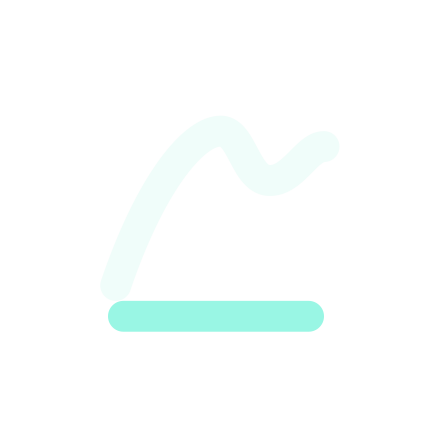
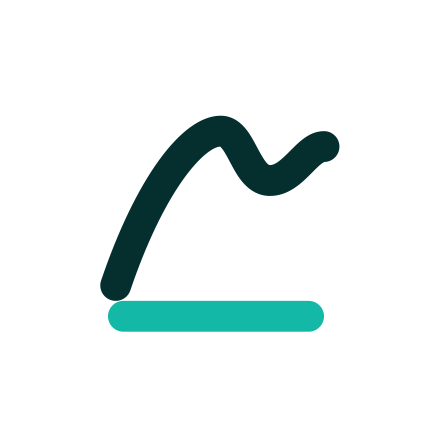
feat: animate branded app startup

Changed region(s): [[0.2106, 0.2708, 0.8125, 0.7824]]

diff --git a/src/app/_layout.tsx b/src/app/_layout.tsx
@@ -1,10 +1,22 @@
+import { useEffect, useState } from 'react';
 import { Stack } from 'expo-router';
 import { StatusBar } from 'expo-status-bar';
-import { ActivityIndicator, Pressable, StyleSheet, Text, View } from 'react-native';
+import * as SplashScreen from 'expo-splash-screen';
+import {
+  Animated,
+  Easing,
+  Platform,
+  Pressable,
+  StyleSheet,
+  Text,
+  View,
+} from 'react-native';
 import { SafeAreaProvider } from 'react-native-safe-area-context';
 
 import { colors } from '@/theme/colors';
 import { AuthProvider, useAuth } from '@/providers/auth-provider';
+
+void SplashScreen.preventAutoHideAsync();
 
 export default function RootLayout() {
   return (
@@ -19,13 +31,20 @@ export default function RootLayout() {
 
 function RootNavigator() {
   const { status, error, retrySession } = useAuth();
+  const [startupDelayComplete, setStartupDelayComplete] = useState(false);
 
-  if (status === 'loading') {
+  useEffect(() => {
+    const timer = setTimeout(() => setStartupDelayComplete(true), 1100);
+    return () => clearTimeout(timer);
+  }, []);
+
+  useEffect(() => {
+    void SplashScreen.hideAsync();
+  }, []);
+
+  if (status === 'loading' || !startupDelayComplete) {
     return (
-      <View style={styles.stateScreen}>
-        <ActivityIndicator color={colors.primary} size="large" />
-        <Text style={styles.stateText}>Connecting to SketchFlow…</Text>
-      </View>
+      <AnimatedStartupScreen />
     );
   }
 
@@ -62,7 +81,83 @@ function RootNavigator() {
   );
 }
 
+function AnimatedStartupScreen() {
+  const [progress] = useState(() => new Animated.Value(0));
+
+  useEffect(() => {
+    const animation = Animated.loop(
+      Animated.sequence([
+        Animated.timing(progress, {
+          toValue: 1,
+          duration: 850,
+          easing: Easing.inOut(Easing.ease),
+          useNativeDriver: Platform.OS !== 'web',
+        }),
+        Animated.timing(progress, {
+          toValue: 0,
+          duration: 850,
+          easing: Easing.inOut(Easing.ease),
+          useNativeDriver: Platform.OS !== 'web',
+        }),
+      ]),
+    );
+    animation.start();
+    return () => animation.stop();
+  }, [progress]);
+
+  const scale = progress.interpolate({
+    inputRange: [0, 1],
+    outputRange: [0.88, 1.06],
+  });
+  const rotate = progress.interpolate({
+    inputRange: [0, 1],
+    outputRange: ['-4deg', '4deg'],
+  });
+  const opacity = progress.interpolate({
+    inputRange: [0, 1],
+    outputRange: [0.78, 1],
+  });
+
+  return (
+    <View style={styles.startupScreen}>
+      <Animated.Image
+        accessibilityLabel="SketchFlow"
+        resizeMode="contain"
+        source={require('../../assets/brand-mark.png')}
+        style={[
+          styles.startupIcon,
+          { opacity, transform: [{ scale }, { rotate }] },
+        ]}
+      />
+      <Text style={styles.startupName}>SketchFlow</Text>
+      <Text style={styles.startupMessage}>Preparing your workspace…</Text>
+    </View>
+  );
+}
+
 const styles = StyleSheet.create({
+  startupScreen: {
+    flex: 1,
+    alignItems: 'center',
+    justifyContent: 'center',
+    backgroundColor: colors.background,
+  },
+  startupIcon: {
+    width: 88,
+    height: 88,
+  },
+  startupName: {
+    marginTop: 16,
+    color: colors.ink,
+    fontSize: 22,
+    fontWeight: '700',
+    letterSpacing: -0.5,
+  },
+  startupMessage: {
+    marginTop: 6,
+    color: colors.muted,
+    fontSize: 13,
+  },
   stateScreen: {
     flex: 1,
     alignItems: 'center',
